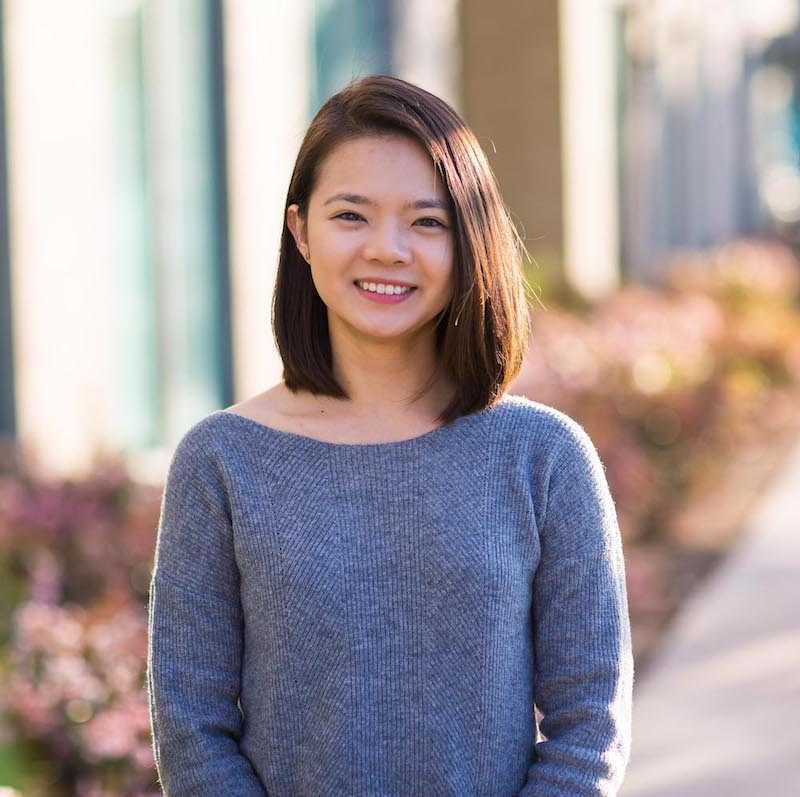
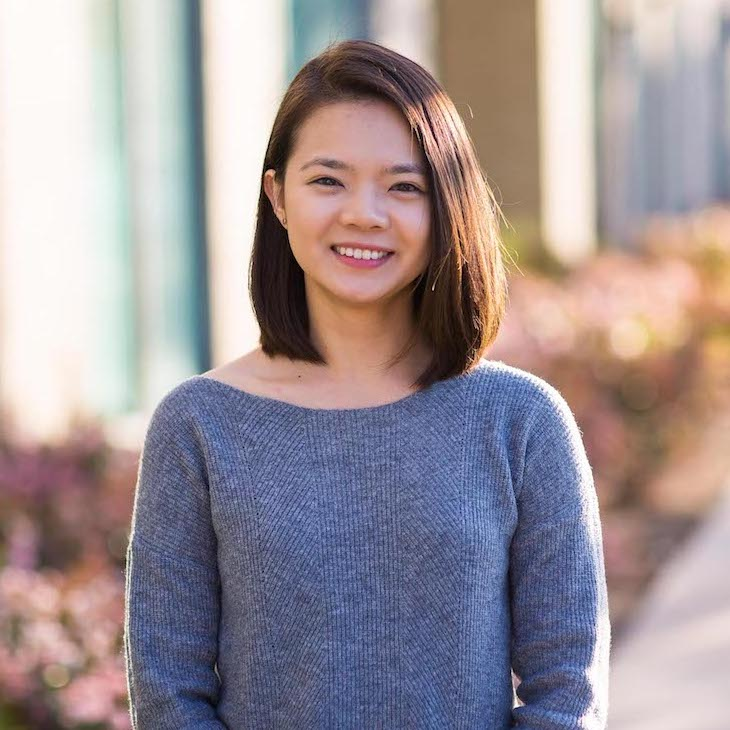
Changed background picture

diff --git a/css/main.css b/css/main.css
@@ -1650,7 +1650,7 @@ button::-moz-focus-inner, input::-moz-focus-inner {
     right: 38px;
     top: 24px;
     height: 42px;
-    width: 42px;
+    width: 112px;
     line-height: 42px;
     font-family: "montserrat-medium", sans-serif;
     font-size: 1.3rem;
@@ -1675,9 +1675,8 @@ button::-moz-focus-inner, input::-moz-focus-inner {
 
 .header-menu-text {
     display: block;
-    position: absolute;
     top: 0;
-    left: -70px;
+    left: 0;
     width: 70px;
     height: 42px;
     padding-left: 12px;
@@ -1687,6 +1686,7 @@ button::-moz-focus-inner, input::-moz-focus-inner {
 
 .header-menu-text img{
     vertical-align: middle;
+    pointer-events: none;
 }
 
 .header-menu-icon {
@@ -1695,7 +1695,7 @@ button::-moz-focus-inner, input::-moz-focus-inner {
     height: 2px;
     margin-top: -1px;
     position: absolute;
-    left: 10px;
+    left: 80px;
     top: 50%;
     right: auto;
     bottom: auto;
@@ -1768,7 +1768,7 @@ button::-moz-focus-inner, input::-moz-focus-inner {
     width: 100%;
     height: 100%;
     /* opacity: .4; */
-    opacity: .8;
+    /* opacity: .8; */
     background: -moz-linear-gradient(top, transparent 0%, rgba(0, 0, 0, 0.8) 100%);
     background: -webkit-linear-gradient(top, transparent 0%, rgba(0, 0, 0, 0.8) 100%);
     background: linear-gradient(to bottom, transparent 0%, rgba(0, 0, 0, 0.8) 100%);
@@ -2255,7 +2255,7 @@ html.no-csstransitions .home-content__main {
     font-size: 2.5rem;
     line-height: 1.8;
     /* color: #555555; */
-    margin-top: 6rem;
+    margin-top: 5rem;
 }
 
 .testimonials__slide {
@@ -2317,6 +2317,7 @@ html.no-csstransitions .home-content__main {
 @media only screen and (max-width: 1000px) {
     .testimonials p {
         font-size: 2.2rem;
+        margin-top: 4rem;
     }
 }
 
@@ -2337,6 +2338,9 @@ html.no-csstransitions .home-content__main {
     img.testimonials__avatar {
         height: 12rem;
         width: 12rem;
+    }
+    .testimonials p {
+        margin-top: 3rem;
     }
 }
 
@@ -2388,6 +2392,7 @@ html.no-csstransitions .home-content__main {
     }
     .testimonials p {
         font-size: 2rem;
+        margin-top: 2rem;
     }
 }
 
@@ -2399,7 +2404,8 @@ html.no-csstransitions .home-content__main {
         font-size: 7.8rem;
     }
     .testimonials p {
-        font-size: 1.9rem;
+        font-size: 1.8rem;
+        margin-top: 1.5rem;
     }
 }
 

diff --git a/index.html b/index.html
@@ -83,22 +83,18 @@
 
         <a class="header-menu-toggle" href="#0">
             <span class="header-menu-text">
-                <img src="images/duy1logo.png" alt="Homepage" usemap="#navigation">
+                <img src="images/duy1logo.png" alt="Homepage">
             </span>
             <!-- <span class="header-menu-text">Menu</span> -->
             <span class="header-menu-icon"></span>
         </a>
-
-        <map name="navigation">
-            <area shape="rect" coords="0,0,100,48" href="#0" alt="navigation" />
-        </map>
 
     </header> <!-- end s-header -->
 
 
     <!-- home
     ================================================== -->
-    <section id="home" class="s-home target-section" data-parallax="scroll" data-image-src="images/IMG_8795.JPG" data-natural-width=3000 data-natural-height=2000 data-position-y=center>
+    <section id="home" class="s-home target-section" data-parallax="scroll" data-image-src="images/background/lauren-mancke-60627-unsplash.jpg" data-natural-width=3000 data-natural-height=2000 data-position-y=center>
 
         <div class="overlay"></div>
         <div class="shadow-overlay"></div>
@@ -161,7 +157,7 @@
 
         <div class="row section-header has-bottom-sep" data-aos="fade-up">
             <div class="col-full">
-                <h3 class="subhead subhead--dark">Hello There</h3>
+                <h3 class="subhead subhead--dark">A Little Something</h3>
                 <h1 class="display-1 display-1--light">About Me</h1>
             </div>
         </div> <!-- end section-header -->
@@ -181,7 +177,7 @@
                             I'm a web developer with a background in accounting, based in Santa Ana, CA.&nbsp;
                             As I was earning my degree, I was exposed to the tech world through courses in C# and C++.&nbsp;
                             This exposure helped me realize I was drawn to programming's creative problem-solving.&nbsp;
-                            I enjoy designing and building applications with simplistic design that enhances the user's satisfaction and experience.
+                            I enjoy designing and building applications with simplistic design that enhances the user's experience and satisfaction.
                         </p>
                     </div>
                 </div>
